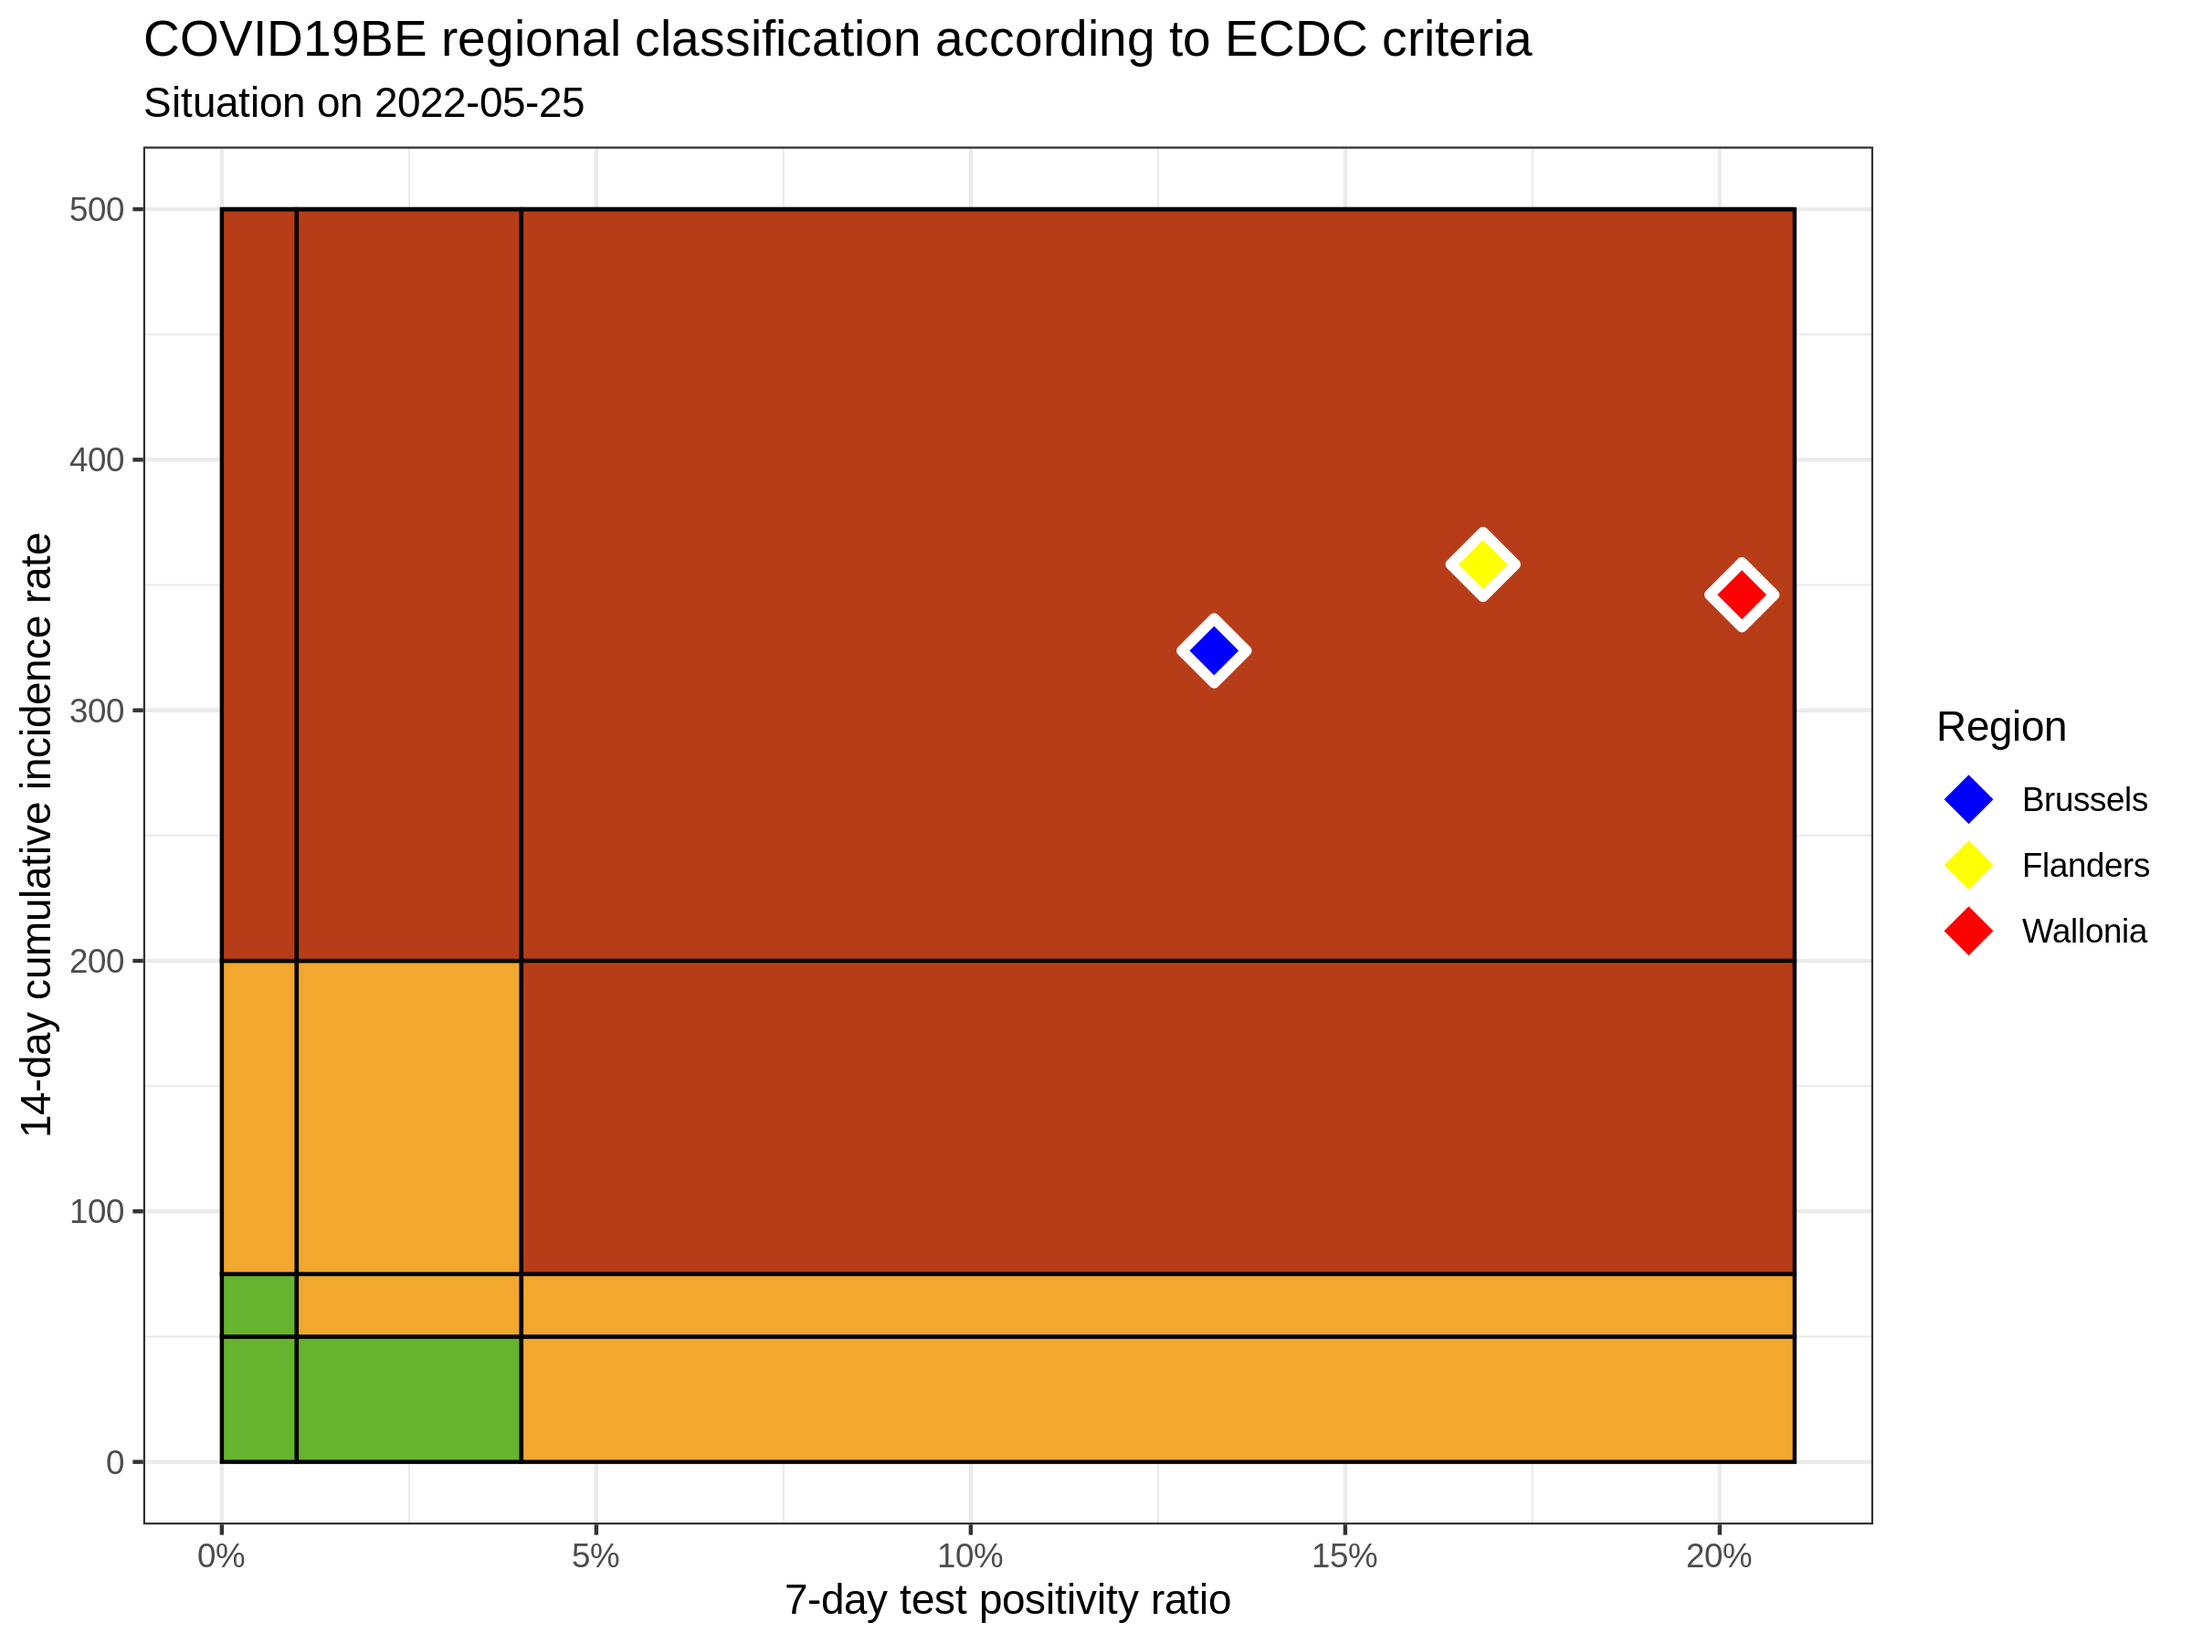
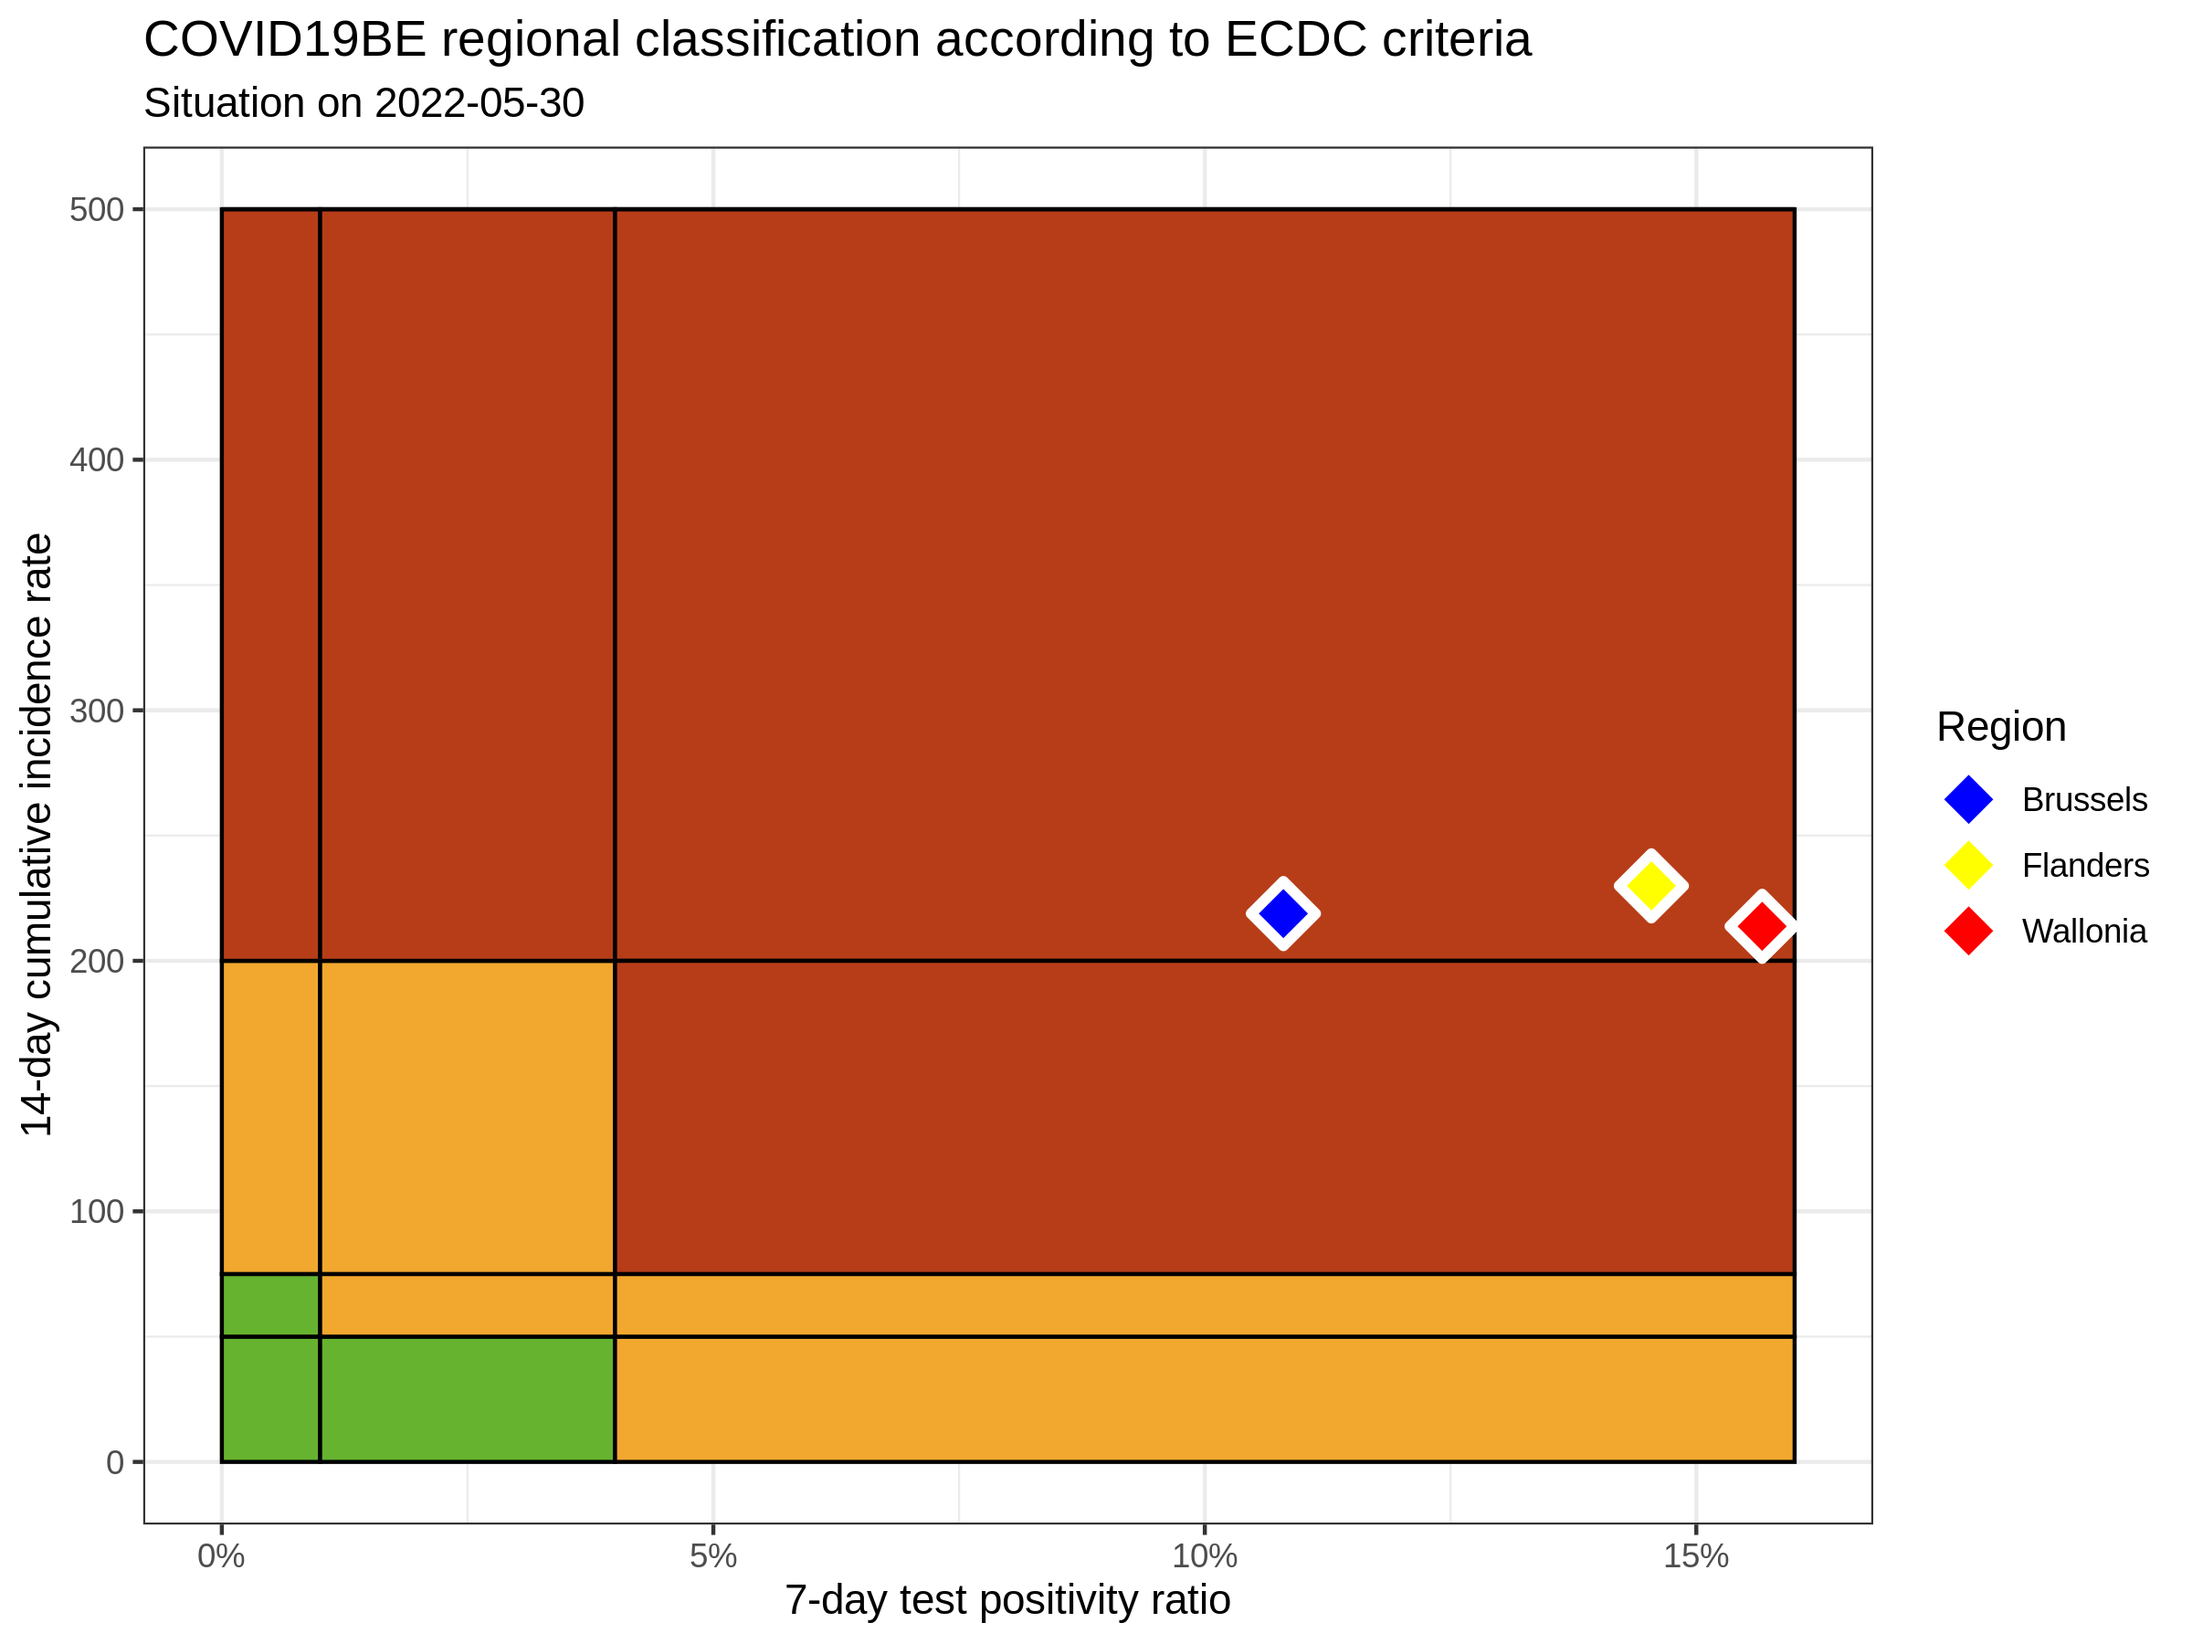
update situation

diff --git a/ecdc-trend/README.md b/ecdc-trend/README.md
@@ -11,9 +11,9 @@
 
 |          | INC14 | INC7 |  TST7 | TST\_POS7 | REGION   |     POP | INC14\_RT |       PR7 |          GR |
 | :------- | ----: | ---: | ----: | --------: | :------- | ------: | --------: | --------: | ----------: |
-| Brussels |  3950 | 1610 | 13533 |      1793 | Brussels | 1219970 |  323.7785 | 0.1324909 | \-0.3119658 |
-| Flanders | 23833 | 9306 | 62027 |     10445 | Flanders | 6653062 |  358.2260 | 0.1683944 | \-0.3593997 |
-| Wallonia | 12627 | 4971 | 26591 |      5397 | Wallonia | 3648206 |  346.1153 | 0.2029634 | \-0.3507053 |
+| Brussels |  2670 |  984 | 10473 |      1131 | Brussels | 1219970 |  218.8578 | 0.1079920 | \-0.4163701 |
+| Flanders | 15297 | 5563 | 44221 |      6431 | Flanders | 6653062 |  229.9242 | 0.1454286 | \-0.4284980 |
+| Wallonia |  7799 | 2641 | 19177 |      3005 | Wallonia | 3648206 |  213.7763 | 0.1566981 | \-0.4879798 |
 
 ### Read more
 
